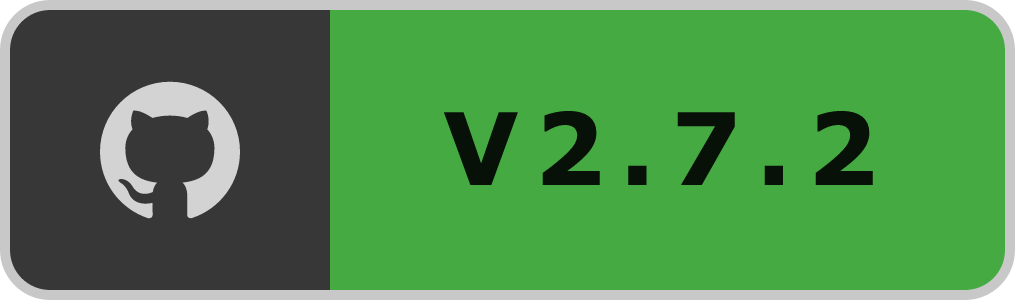
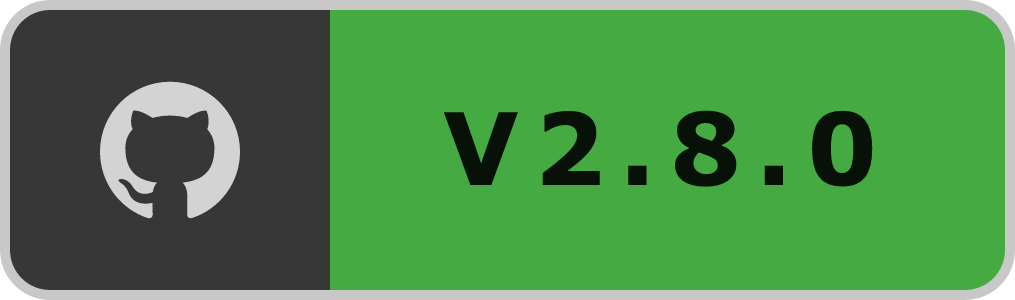
Finalized: v2.8.1.

Changed region(s): [[0.6414, 0.36, 0.733, 0.63], [0.7941, 0.42, 0.8857, 0.63], [0.7941, 0.36, 0.8246, 0.39]]

diff --git a/src/hooks/compileBadges.ts b/src/hooks/compileBadges.ts
@@ -6,7 +6,7 @@ import { join } from "path";
 
 const IMAGES_PATH = join(__dirname, "..", "..", "images");
 
-const VSCODE_VERSION = "1.93";
+const VSCODE_VERSION = "1.94";
 
 // Dynamics
 fetchModifySvg(

diff --git a/CHANGELOG.md b/CHANGELOG.md
@@ -4,6 +4,14 @@ All notable changes to the "codemos-modern" extension will be documented in this
 
 The format is based on [Keep a Changelog](https://keepachangelog.com/en/1.0.0/), and this project adheres to [Semantic Versioning](https://semver.org/spec/v2.0.0.html).
 
+## [2.8.1] - 2024-10-05 - VS Code v1.94.x support 🟢
+
+### Added
+
+- Support for VS Code v1.94.x.
+- Support for editorconfig syntax highlighting.
+- Support for embedded languages' syntax highlighting.
+
 ## [2.8.0] - 2024-10-01 - Introducing Flat design 🎨
 
 ### Added
@@ -408,6 +416,7 @@ The format is based on [Keep a Changelog](https://keepachangelog.com/en/1.0.0/),
 
 - Initial release
 
+[2.8.1]: https://github.com/Codemos-Inc/codemos-modern/compare/v2.8.0...v2.8.1
 [2.8.0]: https://github.com/Codemos-Inc/codemos-modern/compare/v2.7.2...v2.8.0
 [2.7.2]: https://github.com/Codemos-Inc/codemos-modern/compare/v2.7.1...v2.7.2
 [2.7.1]: https://github.com/Codemos-Inc/codemos-modern/compare/v2.7.0...v2.7.1

diff --git a/README.md b/README.md
@@ -323,7 +323,7 @@ Changes from the last major release shown below. If you want to see the full cha
 
 ### Added
 
-- VS Code v1.93.x support.
+- VS Code v1.94.x support.
 - Modularity system. Users can now side-load **third party themes**.
 - Brand new design, **"Flat"**. Users can now choose between **"Modern"**, **"Minimal"** and **"Flat"** designs.
 - Command `codemosModern.authenticate` to increase GitHub **api rate limits**.
